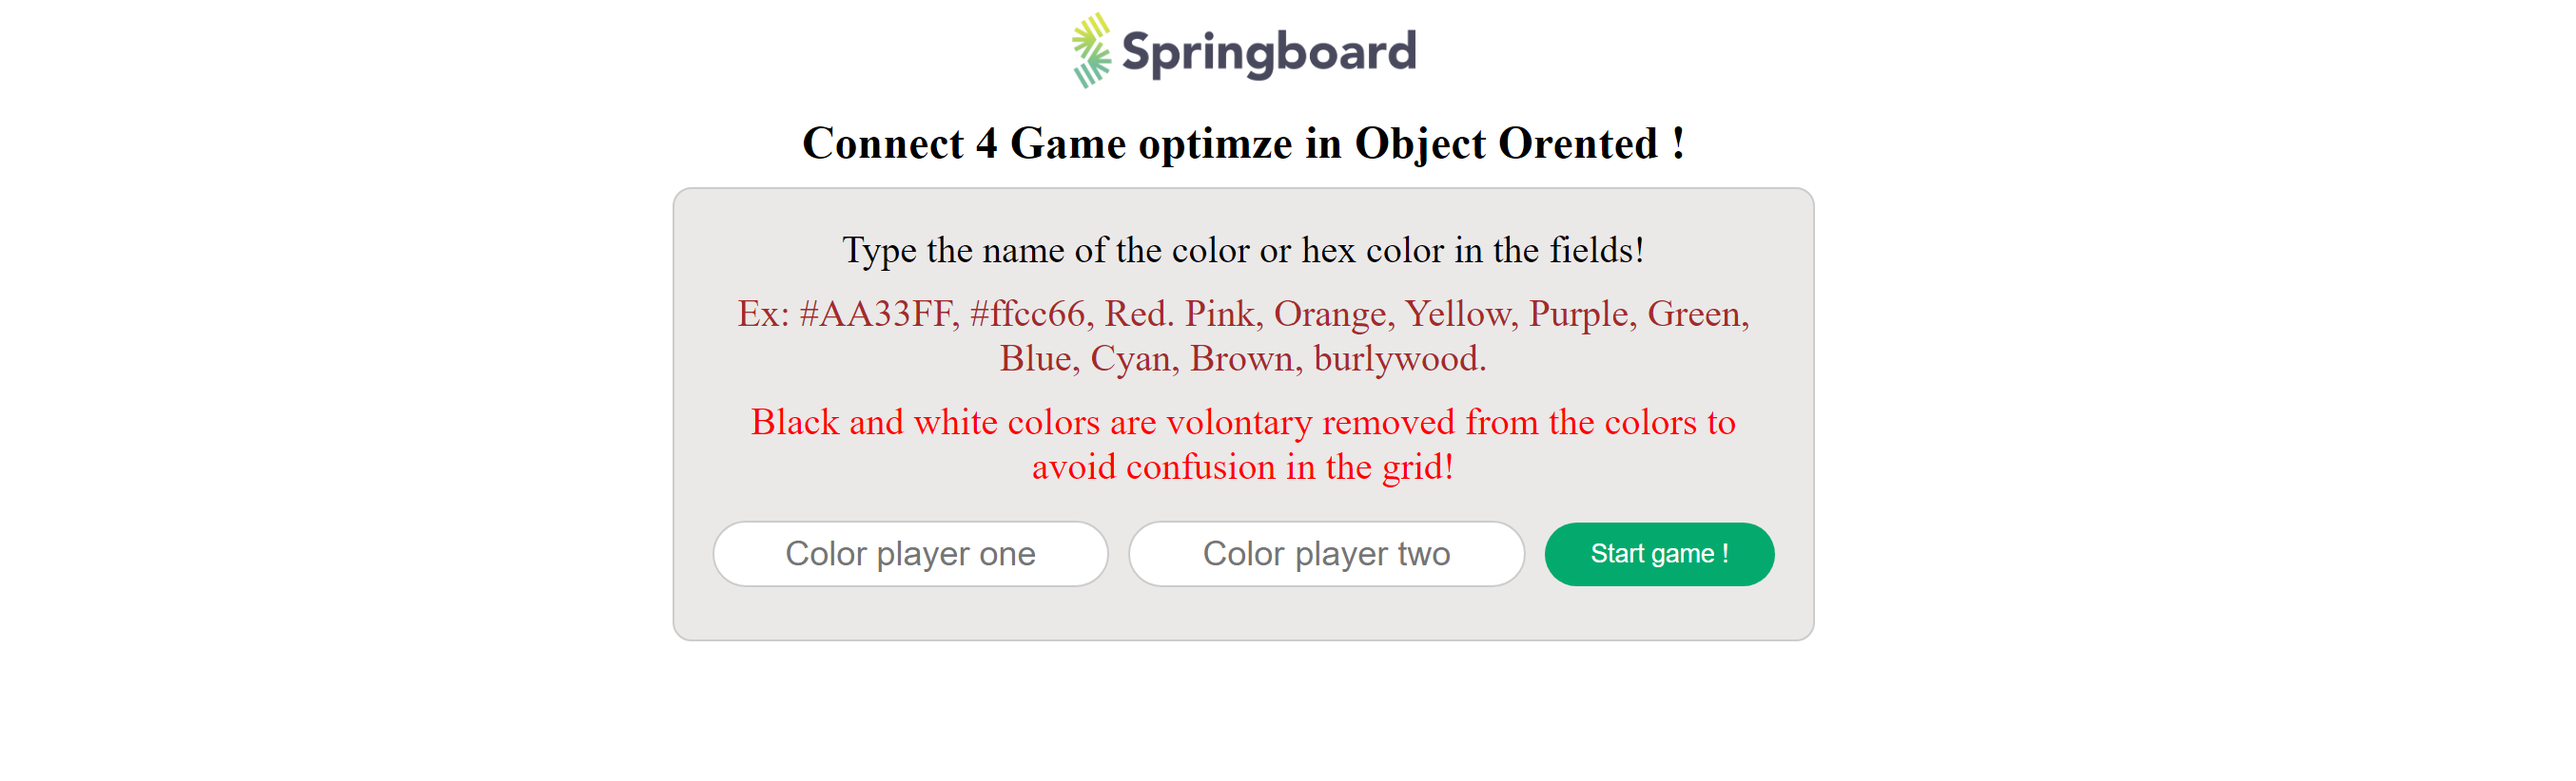
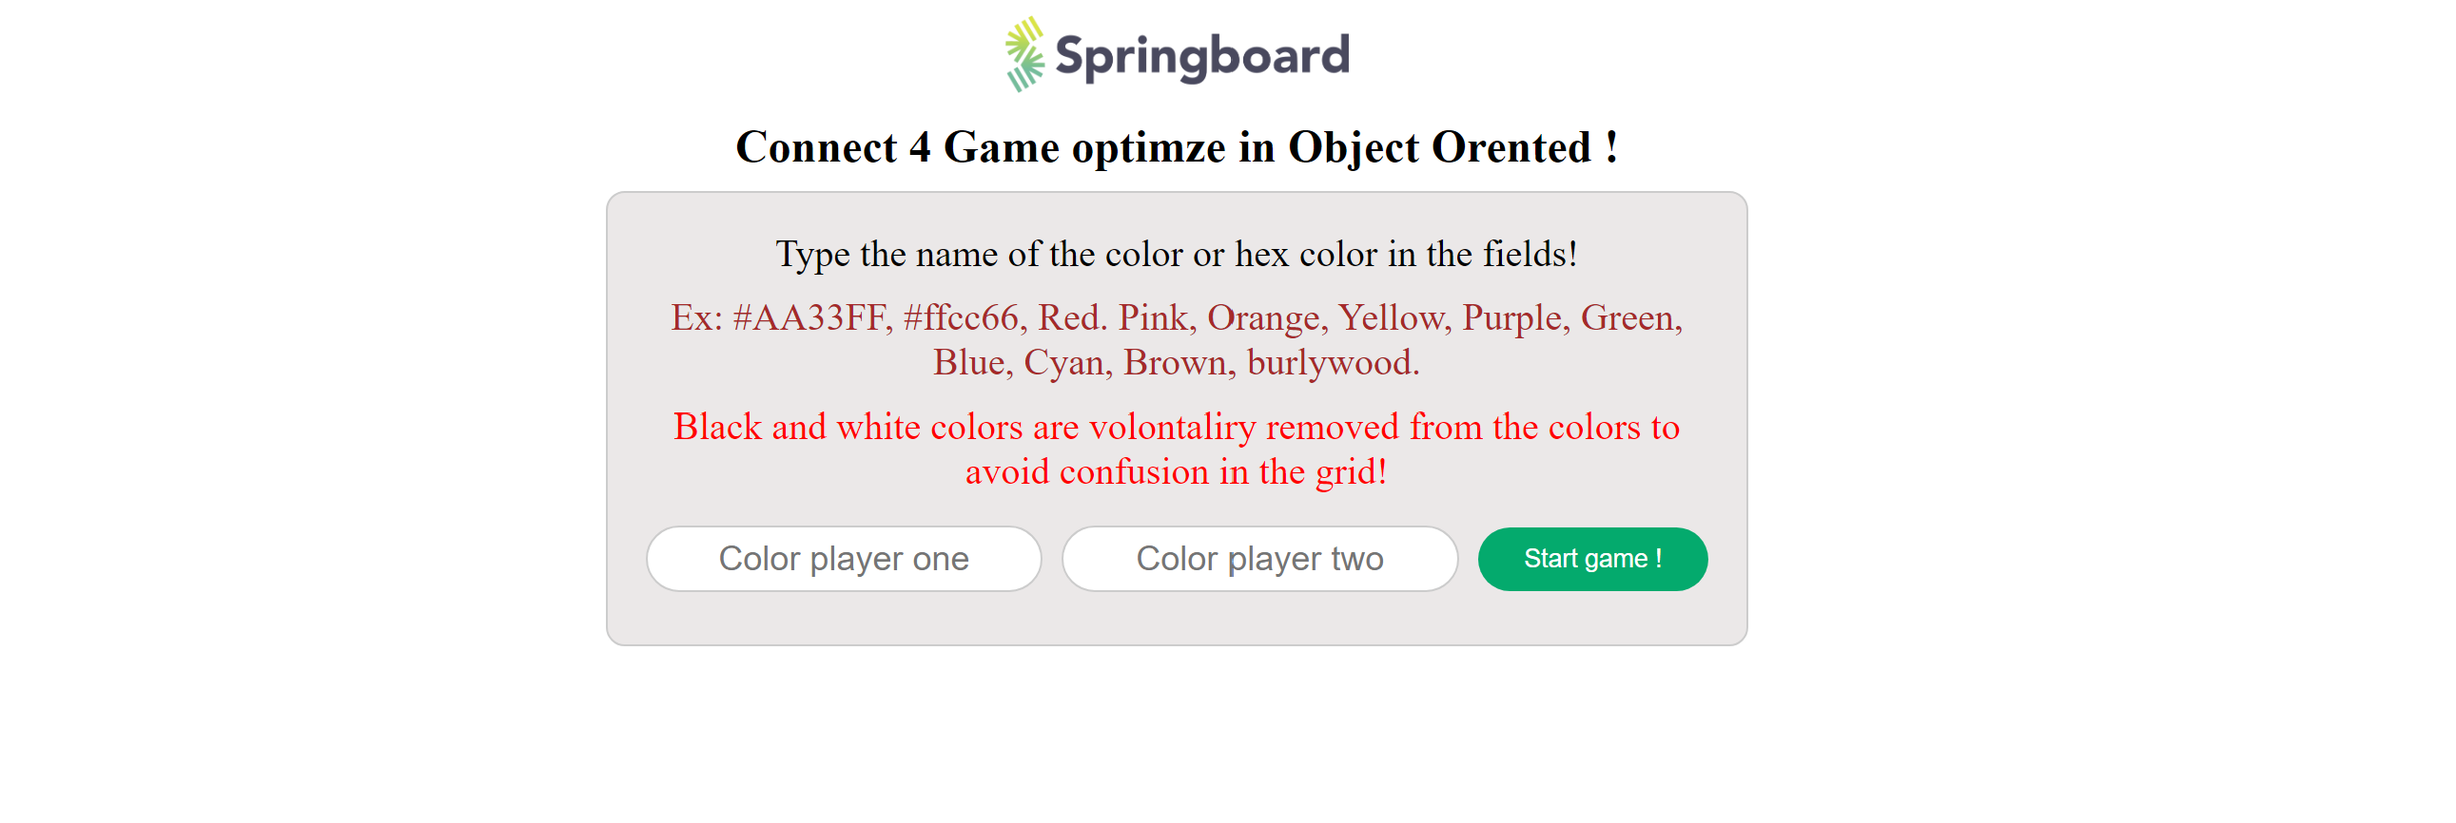
update image

diff --git a/index.html b/index.html
@@ -42,7 +42,7 @@
                     burlywood.</span>
                 </td></tr>
                 <tr><td colspan="3">
-                  <span style="font-size:20px;color: red;" for="">Black and white colors are volontary removed from the colors to avoid confusion in the grid!</span>
+                  <span style="font-size:20px;color: red;" for="">Black and white colors are volontaliry removed from the colors to avoid confusion in the grid!</span>
                 </td></tr>
                 <tr>
                   <td><input id="player-1" required type="text" placeholder="Color player one" /></td>
